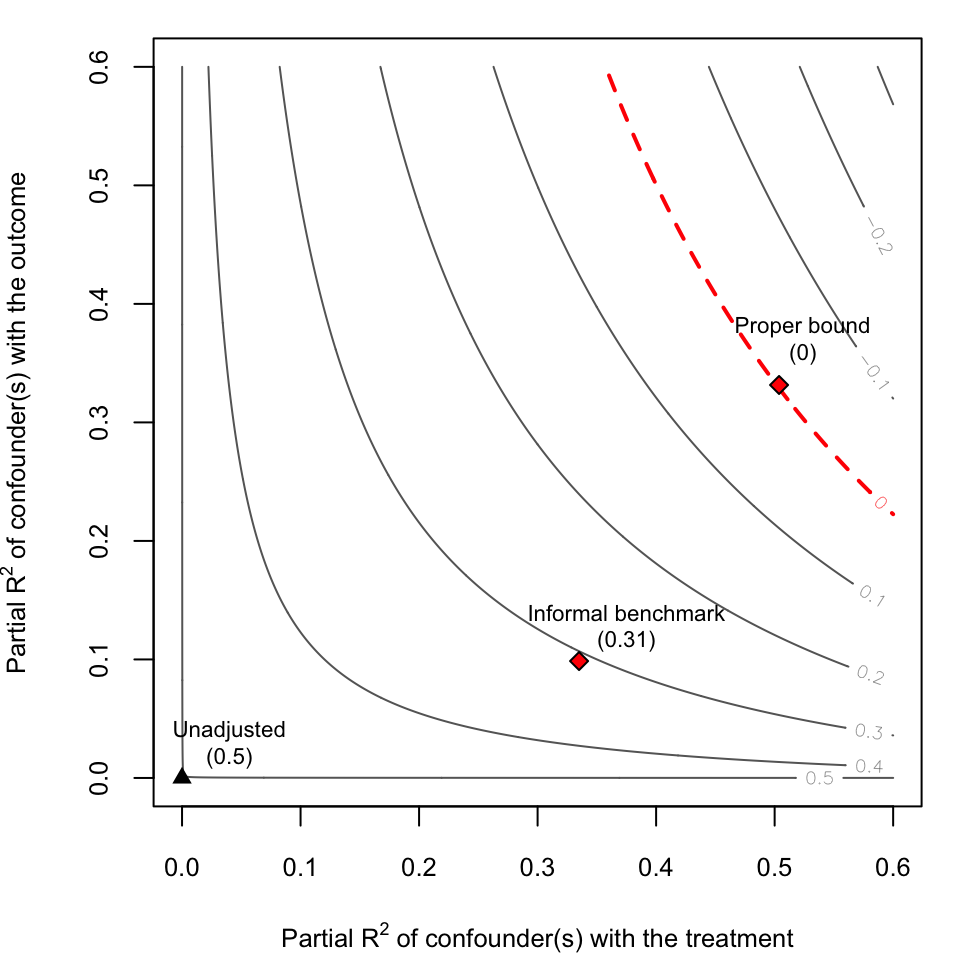
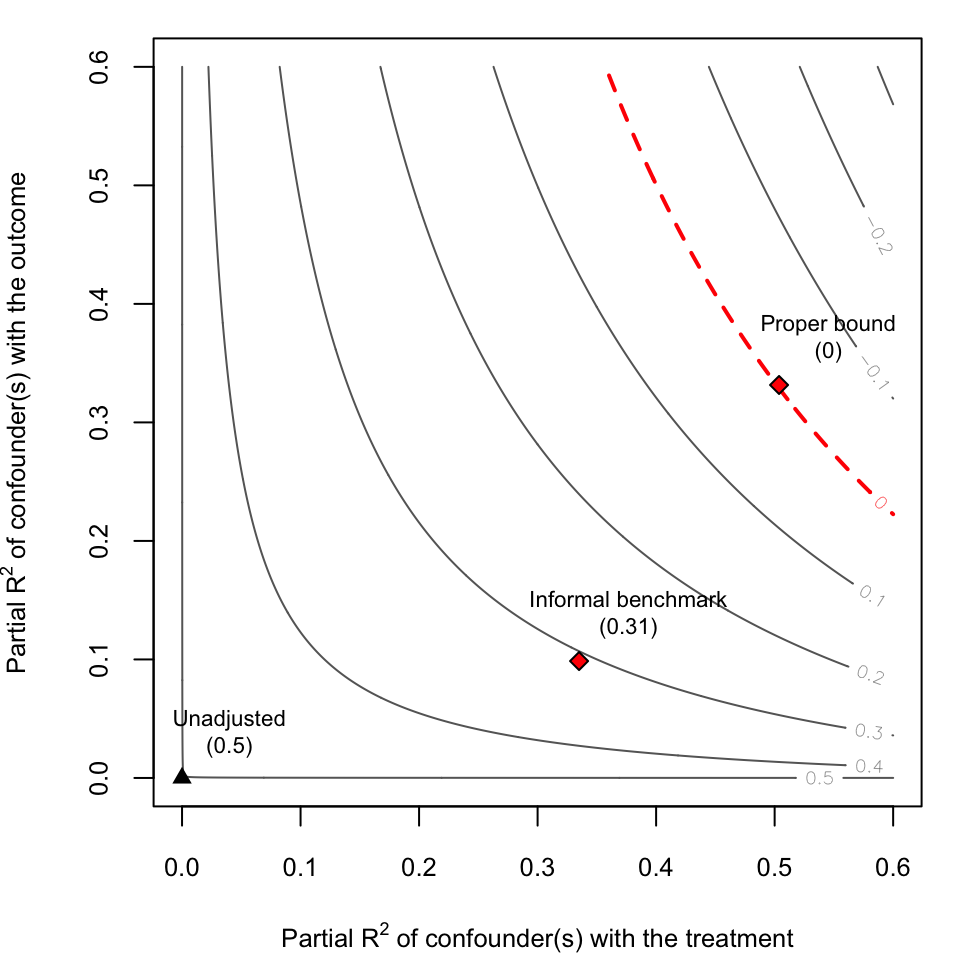
- better default label positions

Changed region(s): [[0.5312, 0.5938, 0.75, 0.6875], [0.1875, 0.7188, 0.3125, 0.8125], [0.75, 0.3125, 0.9375, 0.375]]

diff --git a/docs/articles/informal_benchmarking.html b/docs/articles/informal_benchmarking.html
@@ -89,9 +89,9 @@
 <a href="#introduction" class="anchor"></a>Introduction</h2>
 <p>In this section, we show how to replicate the example in Section 6.1 of <a href="https://doi.org/10.1111/rssb.12348">Cinelli and Hazlett (2020)</a> using the R package <code>sensemakr</code>. This example is especially useful to illustrate how users can construct their own sensitivity contour plots with customized bounds, and it also shows the risks of informal benchmarking procedures that are still widespread in the sensitivity analysis literature (e.g., Imbens, 2003; Blackwell, 2013; Hosman et al. 2010, Dorie et al., 2016, Hong et al. 2018).</p>
 </div>
-<div id="backgroung" class="section level2">
+<div id="background" class="section level2">
 <h2 class="hasAnchor">
-<a href="#backgroung" class="anchor"></a>Backgroung</h2>
+<a href="#background" class="anchor"></a>Background</h2>
 <p>Section 4.4 of <a href="https://doi.org/10.1111/rssb.12348">Cinelli and Hazlett (2020)</a> shows how it is possible to bound the maximum strength of confounding given relative judgments on how the strength unobserved variables compares to the strength of observed variables. You can compute those bounds with the <code>sensemakr</code> package using the function <code><a href="../reference/ovb_bounds.html">ovb_bounds()</a></code></p>
 <p>Prior work in sensitivity analysis—dating back at least to Imbens (2003), and followed by others (e.g, Hosman et al. 2010, Dorie et al., 2016, Hong et al. 2018)—has also proposed comparing observables with unobservables, but has done so by informally using statistics of observed variables to “calibrate intuitions” about sensitivity parameters concerning the unobserved variable. This practice, however, can have undesirable consequences as we show next.</p>
 </div>
@@ -169,17 +169,13 @@ Y &amp;= X + Z + U_y
 <div class="sourceCode" id="cb5"><pre class="sourceCode r"><code class="sourceCode r"><a class="sourceLine" id="cb5-1" data-line-number="1"><span class="co"># draws sensitivity contours</span></a>
 <a class="sourceLine" id="cb5-2" data-line-number="2"><span class="kw"><a href="../reference/ovb_contour_plot.html">ovb_contour_plot</a></span>(model.ydx,  </a>
 <a class="sourceLine" id="cb5-3" data-line-number="3">                 <span class="dt">treatment =</span> <span class="st">"D"</span>, </a>
-<a class="sourceLine" id="cb5-4" data-line-number="4">                 <span class="dt">label.bump.x =</span> <span class="fl">0.04</span>,</a>
-<a class="sourceLine" id="cb5-5" data-line-number="5">                 <span class="dt">label.bump.y =</span> <span class="fl">0.03</span>,</a>
-<a class="sourceLine" id="cb5-6" data-line-number="6">                 <span class="dt">lim =</span> <span class="fl">.6</span>)</a>
-<a class="sourceLine" id="cb5-7" data-line-number="7"></a>
-<a class="sourceLine" id="cb5-8" data-line-number="8"><span class="co"># adds informal benchmark </span></a>
-<a class="sourceLine" id="cb5-9" data-line-number="9"><span class="kw"><a href="../reference/add_bound_to_contour.html">add_bound_to_contour</a></span>(<span class="dt">r2dz.x =</span> r2dx, </a>
-<a class="sourceLine" id="cb5-10" data-line-number="10">                     <span class="dt">r2yz.dx =</span> r2yx.d, </a>
-<a class="sourceLine" id="cb5-11" data-line-number="11">                     <span class="dt">label.bump.x =</span> <span class="fl">0.04</span>,</a>
-<a class="sourceLine" id="cb5-12" data-line-number="12">                     <span class="dt">label.bump.y =</span> <span class="fl">0.03</span>,</a>
-<a class="sourceLine" id="cb5-13" data-line-number="13">                     <span class="dt">bound_value =</span> informal_adjusted_estimate,</a>
-<a class="sourceLine" id="cb5-14" data-line-number="14">                     <span class="dt">bound_label =</span> <span class="st">"Informal benchmark"</span>)</a></code></pre></div>
+<a class="sourceLine" id="cb5-4" data-line-number="4">                 <span class="dt">lim =</span> <span class="fl">.6</span>)</a>
+<a class="sourceLine" id="cb5-5" data-line-number="5"></a>
+<a class="sourceLine" id="cb5-6" data-line-number="6"><span class="co"># adds informal benchmark </span></a>
+<a class="sourceLine" id="cb5-7" data-line-number="7"><span class="kw"><a href="../reference/add_bound_to_contour.html">add_bound_to_contour</a></span>(<span class="dt">r2dz.x =</span> r2dx, </a>
+<a class="sourceLine" id="cb5-8" data-line-number="8">                     <span class="dt">r2yz.dx =</span> r2yx.d, </a>
+<a class="sourceLine" id="cb5-9" data-line-number="9">                     <span class="dt">bound_value =</span> informal_adjusted_estimate,</a>
+<a class="sourceLine" id="cb5-10" data-line-number="10">                     <span class="dt">bound_label =</span> <span class="st">"Informal benchmark"</span>)</a></code></pre></div>
 <p><img src="informal_benchmarking_files/figure-html/unnamed-chunk-7-1.png" width="480" style="display: block; margin: auto;"></p>
 <p>As we can see, the results of the informal benchmark are different from what we expected. The informal benchmark point is still far away from zero, and this would lead an investigator to incorrectly conclude that an unobserved confounder <span class="math inline">\(Z\)</span> “not unlike <span class="math inline">\(X\)</span>” is not sufficient to explain away the observed effect. Moreover, this incorrect conclusion occurs despite <em>correctly</em> assuming that: (i) <span class="math inline">\(Z\)</span> and <span class="math inline">\(X\)</span> have the same strength of association with <span class="math inline">\(D\)</span> and <span class="math inline">\(Y\)</span>; and, (ii) <span class="math inline">\(Z\)</span> is independent of <span class="math inline">\(X\)</span>. Why does this happen?</p>
 <p>As explained in Section 6.1 of <a href="https://doi.org/10.1111/rssb.12348">Cinelli and Hazlett (2020)</a>, there are two problems affecting informal benchmarks in this setting. First, we have to make an adjustment of baseline variance to be explained, since the sensitivity parameters consider the partial <span class="math inline">\(R^2\)</span> of <span class="math inline">\(Z\)</span> with the outcome, after taking into account what is already explained by <span class="math inline">\(X\)</span>. Second, consider the DAG of our structural model:</p>
@@ -202,20 +198,15 @@ Y &amp;= X + Z + U_y
 <a class="sourceLine" id="cb7-4" data-line-number="4"><span class="co"># contour plot</span></a>
 <a class="sourceLine" id="cb7-5" data-line-number="5"><span class="kw"><a href="../reference/ovb_contour_plot.html">ovb_contour_plot</a></span>(model.ydx,  </a>
 <a class="sourceLine" id="cb7-6" data-line-number="6">                 <span class="dt">treatment =</span> <span class="st">"D"</span>,</a>
-<a class="sourceLine" id="cb7-7" data-line-number="7">                 <span class="dt">label.bump.x =</span> <span class="fl">0.04</span>,</a>
-<a class="sourceLine" id="cb7-8" data-line-number="8">                 <span class="dt">label.bump.y =</span> <span class="fl">0.03</span>,</a>
-<a class="sourceLine" id="cb7-9" data-line-number="9">                 <span class="dt">lim =</span> <span class="fl">.6</span>)</a>
-<a class="sourceLine" id="cb7-10" data-line-number="10"></a>
-<a class="sourceLine" id="cb7-11" data-line-number="11"><span class="kw"><a href="../reference/add_bound_to_contour.html">add_bound_to_contour</a></span>(<span class="dt">r2dz.x =</span> r2dx, </a>
-<a class="sourceLine" id="cb7-12" data-line-number="12">                     <span class="dt">r2yz.dx =</span> r2yx.d, </a>
-<a class="sourceLine" id="cb7-13" data-line-number="13">                     <span class="dt">label.bump.x =</span> <span class="fl">0.04</span>,</a>
-<a class="sourceLine" id="cb7-14" data-line-number="14">                     <span class="dt">label.bump.y =</span> <span class="fl">0.03</span>,</a>
-<a class="sourceLine" id="cb7-15" data-line-number="15">                     <span class="dt">bound_value =</span> informal_adjusted_estimate,</a>
-<a class="sourceLine" id="cb7-16" data-line-number="16">                     <span class="dt">bound_label =</span> <span class="st">"Informal benchmark"</span>)</a>
-<a class="sourceLine" id="cb7-17" data-line-number="17"></a>
-<a class="sourceLine" id="cb7-18" data-line-number="18"><span class="kw"><a href="../reference/add_bound_to_contour.html">add_bound_to_contour</a></span>(<span class="dt">bounds =</span> formal_bound, </a>
-<a class="sourceLine" id="cb7-19" data-line-number="19">                     <span class="dt">bound_value =</span> <span class="dv">0</span>, </a>
-<a class="sourceLine" id="cb7-20" data-line-number="20">                     <span class="dt">label.bump.y =</span> <span class="fl">0.04</span>)</a></code></pre></div>
+<a class="sourceLine" id="cb7-7" data-line-number="7">                 <span class="dt">lim =</span> <span class="fl">.6</span>)</a>
+<a class="sourceLine" id="cb7-8" data-line-number="8"></a>
+<a class="sourceLine" id="cb7-9" data-line-number="9"><span class="kw"><a href="../reference/add_bound_to_contour.html">add_bound_to_contour</a></span>(<span class="dt">r2dz.x =</span> r2dx, </a>
+<a class="sourceLine" id="cb7-10" data-line-number="10">                     <span class="dt">r2yz.dx =</span> r2yx.d, </a>
+<a class="sourceLine" id="cb7-11" data-line-number="11">                     <span class="dt">bound_value =</span> informal_adjusted_estimate,</a>
+<a class="sourceLine" id="cb7-12" data-line-number="12">                     <span class="dt">bound_label =</span> <span class="st">"Informal benchmark"</span>)</a>
+<a class="sourceLine" id="cb7-13" data-line-number="13"></a>
+<a class="sourceLine" id="cb7-14" data-line-number="14"><span class="kw"><a href="../reference/add_bound_to_contour.html">add_bound_to_contour</a></span>(<span class="dt">bounds =</span> formal_bound, </a>
+<a class="sourceLine" id="cb7-15" data-line-number="15">                     <span class="dt">bound_value =</span> <span class="dv">0</span>)</a></code></pre></div>
 <p><img src="informal_benchmarking_files/figure-html/unnamed-chunk-10-1.png" width="480" style="display: block; margin: auto;"></p>
 <p>Note that, using the formal bounds, the researcher now reaches the correct conclusion that, an unobserved confounder <span class="math inline">\(Z\)</span> similar to <span class="math inline">\(X\)</span> is strong enough to explain away all the observed association. For further details, please see Sections 4.4 and 6.1 of <a href="https://doi.org/10.1111/rssb.12348">Cinelli and Hazlett (2020)</a>.</p>
 </div>
@@ -233,7 +224,7 @@ Y &amp;= X + Z + U_y
 <a href="#tocnav" class="anchor"></a>Contents</h2>
       <ul class="nav nav-pills nav-stacked">
 <li><a href="#introduction">Introduction</a></li>
-      <li><a href="#backgroung">Backgroung</a></li>
+      <li><a href="#background">Background</a></li>
       <li><a href="#simulating-the-data">Simulating the data</a></li>
       <li><a href="#fitting-the-model">Fitting the model</a></li>
       <li><a href="#informal-benchmarks">Informal benchmarks</a></li>

diff --git a/docs/reference/add_bound_to_contour.html b/docs/reference/add_bound_to_contour.html
@@ -137,8 +137,8 @@
   <span class='kw'>sensitivity.of</span> <span class='kw'>=</span> <span class='fu'><a href='https://rdrr.io/r/base/c.html'>c</a></span>(<span class='st'>"estimate"</span>, <span class='st'>"t-value"</span>),
   <span class='kw'>label.text</span> <span class='kw'>=</span> <span class='fl'>TRUE</span>,
   <span class='kw'>cex.label.text</span> <span class='kw'>=</span> <span class='fl'>0.7</span>,
-  <span class='kw'>label.bump.x</span> <span class='kw'>=</span> <span class='fl'>0.02</span>,
-  <span class='kw'>label.bump.y</span> <span class='kw'>=</span> <span class='fl'>0.02</span>,
+  <span class='kw'>label.bump.x</span> <span class='kw'>=</span> <span class='fu'><a href='https://rdrr.io/r/graphics/par.html'>par</a></span>(<span class='st'>"usr"</span>)[<span class='fl'>2</span>] * (<span class='fl'>1</span>/<span class='fl'>15</span>),
+  <span class='kw'>label.bump.y</span> <span class='kw'>=</span> <span class='fu'><a href='https://rdrr.io/r/graphics/par.html'>par</a></span>(<span class='st'>"usr"</span>)[<span class='fl'>4</span>] * (<span class='fl'>1</span>/<span class='fl'>15</span>),
   <span class='kw'>round</span> <span class='kw'>=</span> <span class='fl'>2</span>,
   <span class='no'>...</span>
 )
@@ -151,8 +151,8 @@
   <span class='kw'>bound_label</span> <span class='kw'>=</span> <span class='kw'>NULL</span>,
   <span class='kw'>label.text</span> <span class='kw'>=</span> <span class='fl'>TRUE</span>,
   <span class='kw'>cex.label.text</span> <span class='kw'>=</span> <span class='fl'>0.7</span>,
-  <span class='kw'>label.bump.x</span> <span class='kw'>=</span> <span class='fl'>0.02</span>,
-  <span class='kw'>label.bump.y</span> <span class='kw'>=</span> <span class='fl'>0.02</span>,
+  <span class='kw'>label.bump.x</span> <span class='kw'>=</span> <span class='fu'><a href='https://rdrr.io/r/graphics/par.html'>par</a></span>(<span class='st'>"usr"</span>)[<span class='fl'>2</span>] * (<span class='fl'>1</span>/<span class='fl'>15</span>),
+  <span class='kw'>label.bump.y</span> <span class='kw'>=</span> <span class='fu'><a href='https://rdrr.io/r/graphics/par.html'>par</a></span>(<span class='st'>"usr"</span>)[<span class='fl'>4</span>] * (<span class='fl'>1</span>/<span class='fl'>15</span>),
   <span class='kw'>round</span> <span class='kw'>=</span> <span class='fl'>2</span>,
   <span class='no'>...</span>
 )</pre>

diff --git a/docs/reference/ovb_contour_plot.html b/docs/reference/ovb_contour_plot.html
@@ -163,8 +163,8 @@ and the covariates used for benchmarking the strength of unobserved confounding.
   <span class='kw'>col.thr.line</span> <span class='kw'>=</span> <span class='st'>"red"</span>,
   <span class='kw'>label.text</span> <span class='kw'>=</span> <span class='fl'>TRUE</span>,
   <span class='kw'>cex.label.text</span> <span class='kw'>=</span> <span class='fl'>0.7</span>,
-  <span class='kw'>label.bump.x</span> <span class='kw'>=</span> <span class='fl'>0.02</span>,
-  <span class='kw'>label.bump.y</span> <span class='kw'>=</span> <span class='fl'>0.02</span>,
+  <span class='kw'>label.bump.x</span> <span class='kw'>=</span> <span class='no'>lim</span> * (<span class='fl'>1</span>/<span class='fl'>15</span>),
+  <span class='kw'>label.bump.y</span> <span class='kw'>=</span> <span class='no'>lim.y</span> * (<span class='fl'>1</span>/<span class='fl'>15</span>),
   <span class='kw'>round</span> <span class='kw'>=</span> <span class='fl'>3</span>,
   <span class='no'>...</span>
 )
@@ -214,8 +214,8 @@ and the covariates used for benchmarking the strength of unobserved confounding.
   <span class='kw'>col.thr.line</span> <span class='kw'>=</span> <span class='st'>"red"</span>,
   <span class='kw'>label.text</span> <span class='kw'>=</span> <span class='fl'>TRUE</span>,
   <span class='kw'>cex.label.text</span> <span class='kw'>=</span> <span class='fl'>0.7</span>,
-  <span class='kw'>label.bump.x</span> <span class='kw'>=</span> <span class='fl'>0.02</span>,
-  <span class='kw'>label.bump.y</span> <span class='kw'>=</span> <span class='fl'>0.02</span>,
+  <span class='kw'>label.bump.x</span> <span class='kw'>=</span> <span class='no'>lim</span> * (<span class='fl'>1</span>/<span class='fl'>15</span>),
+  <span class='kw'>label.bump.y</span> <span class='kw'>=</span> <span class='no'>lim.y</span> * (<span class='fl'>1</span>/<span class='fl'>15</span>),
   <span class='kw'>xlab</span> <span class='kw'>=</span> <span class='kw'>NULL</span>,
   <span class='kw'>ylab</span> <span class='kw'>=</span> <span class='kw'>NULL</span>,
   <span class='kw'>cex.lab</span> <span class='kw'>=</span> <span class='fl'>0.8</span>,

diff --git a/docs/reference/ovb_bounds.html b/docs/reference/ovb_bounds.html
@@ -184,12 +184,11 @@ absolute value of the estimated coefficient? Default is <code>TRUE</code>.</p></
     </tr>
     <tr>
       <th>adjusted_estimates</th>
-      <td><p>should the bounder also compute the adjusted estimates?</p></td>
+      <td><p>should the bounder also compute the adjusted estimates? Default is <code>TRUE</code>.</p></td>
     </tr>
     <tr>
       <th>alpha</th>
-      <td><p>significance level for computing the adjusted confidence intervals.
-Default is <code>TRUE</code>.</p></td>
+      <td><p>significance level for computing the adjusted confidence intervals. Default is 0.05.</p></td>
     </tr>
     </table>
 
